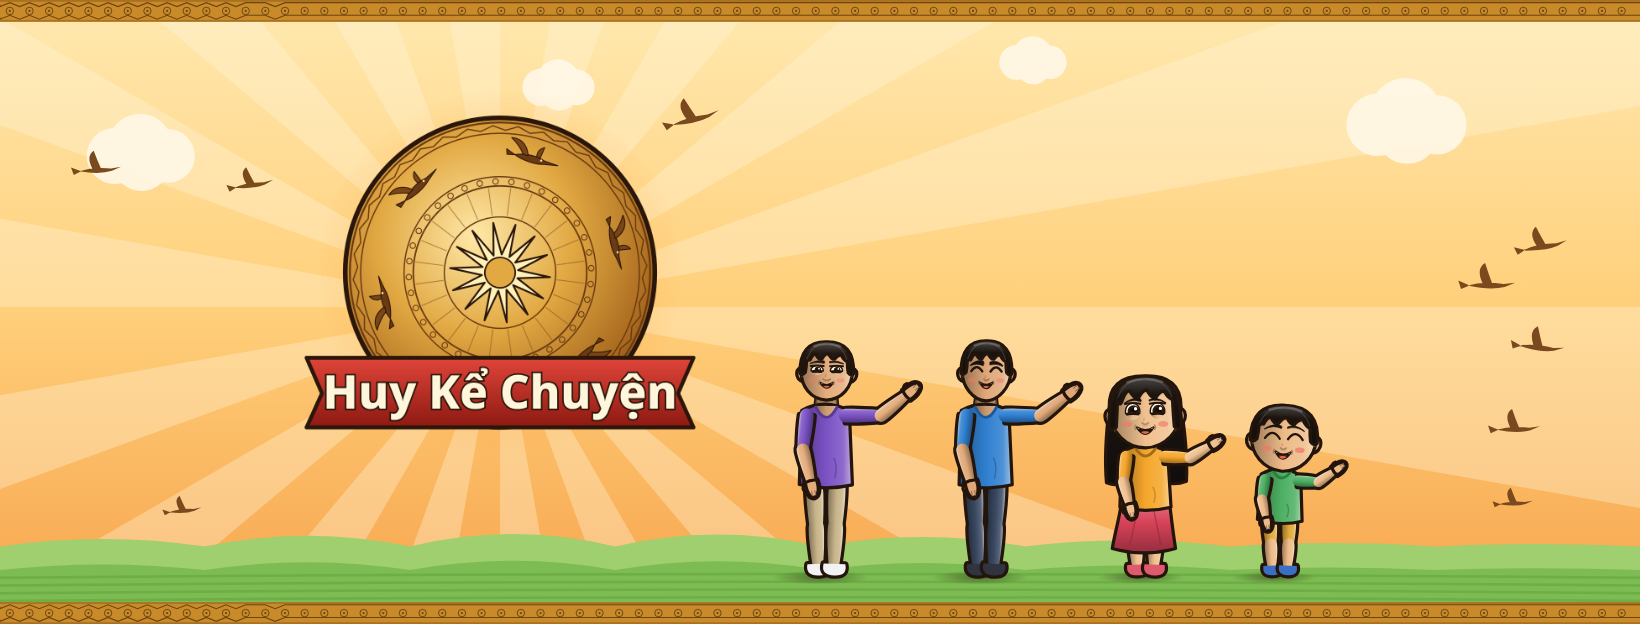
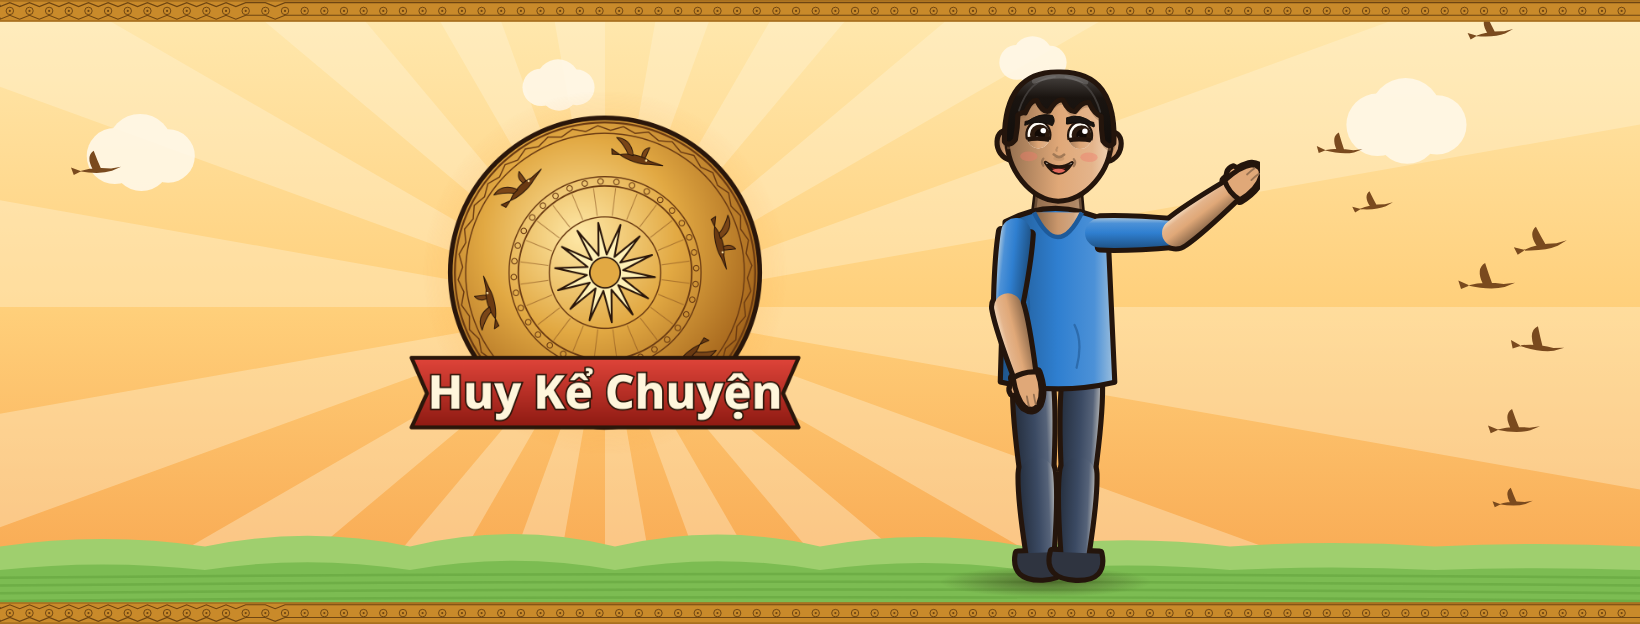
Ảnh bìa Huy Kể Chuyện chỉ có Huy (người kể chuyện); Ask Huy giữ bốn người dẫn

diff --git a/src/animation/brand/channelart.ts b/src/animation/brand/channelart.ts
@@ -7,6 +7,9 @@
  *                                   (what a phone shows; a TV shows it all)
  *   facebook-cover.png  1640×624    the same inside the middle 1110 px (a phone crops the sides)
  *
+ * Who stands on the covers: Ask Huy, its four presenters (in every video); Huy Kể Chuyện, Huy
+ * alone (the storyteller: the presenters belong to its Q&A and English series, not its stories).
+ *
  * The background is drawn in vector (brand/channelart.html), the presenters by the player
  * (front view, waving, on a transparent page), the logo by the brand page: no painting, no
  * brain. `npm run wata -- channel-art` writes assets/brand/channel-art/ and
@@ -23,25 +26,31 @@ const HERE = path.dirname(fileURLToPath(import.meta.url));
 const PAGE = path.join(HERE, "channelart.html"), BRAND_PAGE = path.join(HERE, "brand.html"), PLAYER = path.join(HERE, "..", "player.html");
 
 type Box = { x: number; y: number; w: number; h: number };
-interface Cover { file: string; width: number; height: number; logo: Box; people: Box }
+interface Layout { logo: Box; people: Box }
+interface Cover { file: string; width: number; height: number; group: Layout; solo: Layout }
 /** Where things go on each cover (inside what every screen shows). */
 const COVERS: Cover[] = [
   // YouTube: the band a phone shows is x 507–2053, y 508–931.
-  { file: "youtube-banner.png", width: 2560, height: 1440, logo: { x: 580, y: 515, w: 410, h: 410 }, people: { x: 1060, y: 470, w: 1000, h: 470 } },
+  { file: "youtube-banner.png", width: 2560, height: 1440,
+    group: { logo: { x: 580, y: 515, w: 410, h: 410 }, people: { x: 1060, y: 470, w: 1000, h: 470 } },
+    solo: { logo: { x: 760, y: 515, w: 410, h: 410 }, people: { x: 1210, y: 515, w: 520, h: 420 } } },
   // Facebook: a phone shows x 265–1375; the page's round picture sits over the bottom left on a computer.
-  { file: "facebook-cover.png", width: 1640, height: 624, logo: { x: 285, y: 92, w: 430, h: 430 }, people: { x: 735, y: 40, w: 640, h: 560 } },
+  { file: "facebook-cover.png", width: 1640, height: 624,
+    group: { logo: { x: 285, y: 92, w: 430, h: 430 }, people: { x: 735, y: 40, w: 640, h: 560 } },
+    solo: { logo: { x: 390, y: 92, w: 430, h: 430 }, people: { x: 860, y: 40, w: 400, h: 560 } } },
 ];
 /** The presenters, left to right: far enough apart that a waving hand does not reach a face. */
-const LINE_UP = [["hung", 0], ["huy", 250], ["boi", 500], ["beo", 710]] as const;
+type LineUp = readonly (readonly [string, number])[];
+const GROUP: LineUp = [["hung", 0], ["huy", 250], ["boi", 500], ["beo", 710]], SOLO: LineUp = [["huy", 0]];
 
-/** The four presenters waving, front view, on a transparent picture of the given size. */
-async function presenters(out: string, w: number, h: number): Promise<void> {
+/** The presenters waving, front view, on a transparent picture of the given size. */
+async function presenters(out: string, w: number, h: number, line: LineUp): Promise<void> {
   const L = LOOKS as Record<string, unknown>;
   const scene = {
     duration: 4, time: "day", transparent: true, backdrop: false, set: { name: "plain" }, style: "hien_dai",
-    cast: LINE_UP.map(([id, x]) => ({ id, type: "human", look: L[`${id}_front`], x })),
-    actions: LINE_UP.map(([id], i) => ({ actor: id, at: 0, do: "wave", face: i % 2 ? "joy" : "happy" })),
-    shots: [{ at: 0, type: "full", on: LINE_UP.map(([id]) => id), region: [0.02, 0.98], share: 0.9, gy: 0.96 }],
+    cast: line.map(([id, x]) => ({ id, type: "human", look: L[`${id}_front`], x })),
+    actions: line.map(([id], i) => ({ actor: id, at: 0, do: "wave", face: i % 2 ? "joy" : "happy" })),
+    shots: [{ at: 0, type: "full", on: line.map(([id]) => id), region: [0.02, 0.98], share: 0.9, gy: 0.96 }],
   };
   await still({ page: PLAYER, width: w, height: h, output: out, at: 1.2, transparent: true, params: { scene, width: w, height: h } });
 }
@@ -58,9 +67,11 @@ export async function channelArt(brand: Brand, log: (s: string) => void = consol
   const avatar = path.join(dir, "avatar.png");
   await still({ page: PAGE, width: 1080, height: 1080, output: avatar, params: { width: 1080, height: 1080, theme, kind: "avatar", focus: { x: 540, y: 540, r: 380 }, layers: [{ src: url(mark), x: 40, y: 40, w: 1000, h: 1000 }] } });
   out.push(avatar);
-  for (const c of COVERS) {
+  const solo = theme !== "ask_huy";
+  for (const cover of COVERS) {
+    const c = { ...cover, ...(solo ? cover.solo : cover.group) };
     const people = path.join(tmp, `people-${c.width}.png`);
-    await presenters(people, c.people.w, c.people.h);
+    await presenters(people, c.people.w, c.people.h, solo ? SOLO : GROUP);
     const file = path.join(dir, c.file);
     await still({ page: PAGE, width: c.width, height: c.height, output: file, params: {
       width: c.width, height: c.height, theme, kind: "banner",

diff --git a/README.md b/README.md
@@ -399,7 +399,7 @@ Drive miễn phí có 15 GB. Mỗi chủ đề khoảng 90–500 MB.
 
 `npm run wata -- channel-art` (`src/animation/brand/channelart.ts`) vẽ cho mỗi kênh:
 - `avatar.png` 1080×1080: ảnh đại diện chung cho YouTube, Facebook, TikTok. Là logo không chữ trên nền màu kênh, hiển thị hình tròn.
-- `youtube-banner.png` 2560×1440: logo và bốn người dẫn nằm trong vùng giữa 1546×423 (vùng điện thoại hiển thị).
+- `youtube-banner.png` 2560×1440: logo và người dẫn nằm trong vùng giữa 1546×423 (vùng điện thoại hiển thị). Ask Huy có bốn người dẫn; Huy Kể Chuyện chỉ có Huy, vì người kể là Huy và bốn người dẫn chỉ có ở chuyên mục hỏi đáp và học tiếng Anh.
 - `facebook-cover.png` 1640×624: các phần chính nằm giữa, vì điện thoại cắt hai bên.
 
 TikTok không có ảnh bìa. Ảnh nằm ở `assets/brand/channel-art/` (Huy Kể Chuyện) và `assets/brand/ask-huy/channel-art/` (Ask Huy). Nền vẽ bằng vector nên sắc nét; đổi nhân vật hoặc logo thì chạy lại lệnh.
